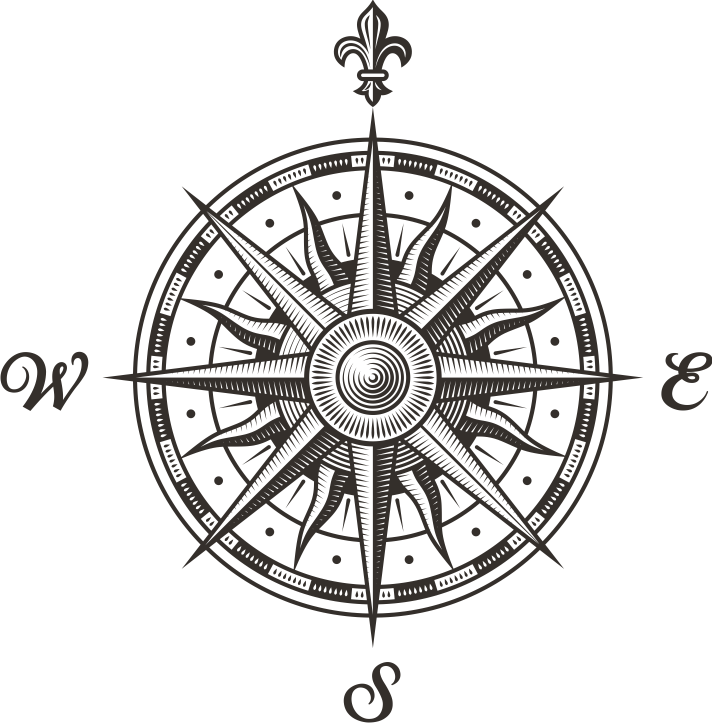
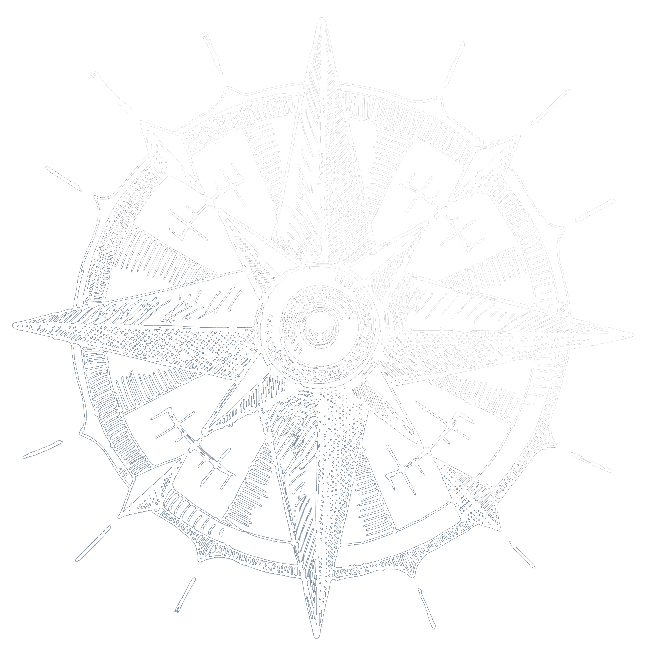
modify css to map section

Changed region(s): [[0.0, 0.0, 0.8909, 1.0], [0.9217, 0.4885, 1.0, 0.5802], [0.3687, 0.1527, 0.3994, 0.1832]]

diff --git a/assets/css/map.css b/assets/css/map.css
@@ -1,3 +1,10 @@
+
+#map h1 {
+  text-align:center;
+  padding: 10px;
+  background-color: black;
+}
+
 .tile {
   height: 120px;
   width: 120px;
@@ -26,53 +33,53 @@
 
 @media screen and (max-width: 1800px) {
   .tile {
-      height: 100px;
-      width: 100px;
+    height: 100px;
+    width: 100px;
   }
 }
 
 @media screen and (max-width: 1475px) {
   .tile {
-      height: 80px;
-      width: 80px;
+    height: 80px;
+    width: 80px;
   }
 }
 
 @media screen and (max-width: 1200px) {
   .tile {
-      height: 60px;
-      width: 60px;
+    height: 60px;
+    width: 60px;
   }
 }
 
 .tile-name {
   position: absolute;
   font-family: Caribbean;
-  opacity: 0.8;
+  opacity: 0.5;
 }
 
 .sea {
-  background-image: url('../images/sea.png');
+  background-image: url("../images/sea.png");
 }
 
 .port {
-  background-image: url('../images/port.png');
+  background-image: url("../images/port.png");
 }
 
 .island {
-  background-image: url('../images/island.png');
+  background-image: url("../images/island.png");
 }
 
 @keyframes myBoat {
   0% {
-      transform: rotate(-5deg);
-      transform: translate(0 px, 0 px);
+    transform: rotate(-5deg);
+    transform: translate(0 px, 0 px);
   }
   50% {
-      transform: translate(5px, 5px);
+    transform: translate(5px, 5px);
   }
   100% {
-      transform: rotate(5deg) translate(0px, 0px);
+    transform: rotate(5deg) translate(0px, 0px);
   }
 }
 
@@ -82,31 +89,120 @@
 }
 
 .map {
-  background-image: url('../images/map.jpg');
+  background-image: url("../images/map.jpg");
   background-size: cover;
   background-repeat: no-repeat;
   padding: 1em;
-  margin-top: 1em;
 }
 
-.navigation {
-  background-image: url('../images/compass.png');
-  background-size: cover;
-  width: 100%;
-  height: 300px;
-  padding: 1em;
-  padding-top: 0.2em;
+.navigation-infos {
+  display: flex;
+  flex-direction: column;
+  justify-content: space-around;
 }
 
+.navigation,
 .infos {
-  background-image: url('../images/map.jpg');
-  width: 100%;
-  min-height: 300px;
-  margin-top: 1em;
-  padding: 1em;
-  padding-top: 0.2em;
+  background-color: black;
+  border: 1px solid white;
+  height: 300px;
+  display: flex;
+  flex-direction: column;
+  align-items: center;
 }
 
-h2 {
+.navigation h2,
+.infos h2 {
+  padding: 10px;
   font-size: 1.3em;
+  margin-bottom: 0;
+}
+
+.navigation .nav-infos {
+  font-size: 10px;
+  color: white;
+  margin-bottom: 0;
+  text-align: center;
+  font-style: italic;
+}
+
+.compass,
+.board {
+  width: 200px;
+  height: 200px;
+  display: flex;
+  flex-direction: column;
+  justify-content: center;
+  align-items: center;
+  align-self: center;
+}
+
+.compass {
+  background-image: url("../images/compass.png");
+  background-size: cover;
+}
+
+.compass .btn {
+  color: white !important;
+  background-color: black !important;
+  height: 50px;
+  font-weight: bold;
+  display: flex;
+  justify-content: center;
+  align-items: center;
+  border: 1px solid white;
+}
+
+.compass .btn:hover {
+  color: black !important;
+  background-color: white !important;
+  border: 1px solid black;
+}
+
+.compass>*:first-child {
+    position: absolute;
+    top: 0;
+}
+.compass>*:last-child {
+    position: absolute;
+    bottom: 0;
+}
+
+.compass .middle {
+  width: 100%;
+  display: flex;
+  justify-content: space-between;
+}
+
+.board {
+  background-image: url("../images/infos.jpg");
+  background-size: cover;
+}
+.board p {
+  color: white;
+  background-color: black;
+  padding: 0 20px;
+}
+
+.overlay-image {
+  background-color : black;
+}
+
+.overlay-image img {
+  width: 50px;
+  height: 50px;
+}
+
+.overlay-text {
+  display: none;
+}
+
+.overlay-image:hover .overlay-text {
+  display: block;
+  text-align: center;
+ position: absolute;
+ bottom: 0;
+ left: 50%;
+ transform: translate(-50%, -50%);
+ width: 100%;
 }

diff --git a/assets/js/books.js b/assets/js/books.js
@@ -1,0 +1,70 @@
+var Books = (function() {
+
+	var $books = $( '#bk-list > li > div.bk-book' ), booksCount = $books.length;
+	
+	function init() {
+
+		$books.each( function() {
+			
+			var $book = $( this ),
+				$other = $books.not( $book ),
+				$parent = $book.parent(),
+				$page = $book.children( 'div.bk-page' ),
+				$bookview = $parent.find( 'button.bk-bookview' ),
+				$content = $page.children( 'div.bk-content' ), current = 0;
+
+			$book.on( 'click', function() {
+
+				var $this = $( this );			
+				
+				$other.data( 'opened', false ).removeClass( 'bk-viewinside' ).parent().css( 'z-index', 0 ).find( 'button.bk-bookview' ).removeClass( 'bk-active' );
+				if( !$other.hasClass( 'bk-viewback' ) ) {
+					$other.addClass( 'bk-bookdefault' );
+				}
+
+				if( $book.data( 'opened' ) ) {
+					$this.removeClass( 'bk-active' );
+					$book.data( { opened : false, flip : false } ).removeClass( 'bk-viewinside' ).addClass( 'bk-bookdefault' );
+				}
+				else {
+					$this.addClass( 'bk-active' );
+					$book.data( { opened : true, flip : false } ).removeClass( 'bk-viewback bk-bookdefault' ).addClass( 'bk-viewinside' );
+					$parent.css( 'z-index', booksCount );
+					current = 0;
+					$content.removeClass( 'bk-content-current' ).eq( current ).addClass( 'bk-content-current' );
+				}
+
+			} );
+
+			if( $content.length > 1 ) {
+
+				var $navPrev = $( '<span class="bk-page-prev">&lt;</span>' ),
+					$navNext = $( '<span class="bk-page-next">&gt;</span>' );
+				
+				$page.append( $( '<nav></nav>' ).append( $navPrev, $navNext ) );
+
+				$navPrev.on( 'click', function() {
+					if( current > 0 ) {
+						--current;
+						$content.removeClass( 'bk-content-current' ).eq( current ).addClass( 'bk-content-current' );
+					}
+					return false;
+				} );
+
+				$navNext.on( 'click', function() {
+					if( current < $content.length - 1 ) {
+						++current;
+						$content.removeClass( 'bk-content-current' ).eq( current ).addClass( 'bk-content-current' );
+					}
+					return false;
+				} );
+
+			}
+			
+		} );
+
+	}
+
+	return { init : init };
+
+})();

diff --git a/assets/css/style.css b/assets/css/style.css
@@ -1,10 +1,11 @@
 @font-face {
   font-family: Caribbean;
-  src: url('../fonts/Caribbean.ttf');
+  src: url("../fonts/Caribbean.ttf");
 }
 
 body {
-  background-image: url('../images/background.jpg');
+  background-color: black;
+  background-image: url("../images/background.jpg");
   background-size: cover;
   background-repeat: no-repeat;
   background-attachment: fixed;
@@ -15,13 +16,24 @@ nav {
   font-family: Caribbean;
 }
 
-h1, h2, h3, h4, h5, h6, .h1, .h2, .h3, .h4, .h5, .h6 {
+h1,
+h2,
+h3,
+h4,
+h5,
+h6,
+.h1,
+.h2,
+.h3,
+.h4,
+.h5,
+.h6 {
   font-family: Caribbean;
   color: white;
 }
 
 .introduction {
-  background-image: url('../images/papyrus.png');
+  background-image: url("../images/desktop.jpg");
   background-size: cover;
   background-repeat: no-repeat;
   padding: 7em;
@@ -60,9 +72,8 @@ h1, h2, h3, h4, h5, h6, .h1, .h2, .h3, .h4, .h5, .h6 {
 .hint {
   font-weight: bold;
   font-family: Caribbean;
-
 }
 blockquote {
   font-style: italic;
-  margin-top:0.5em;
+  margin-top: 0.5em;
 }

diff --git a/src/Controller/BoatController.php b/src/Controller/BoatController.php
@@ -58,7 +58,7 @@ class BoatController extends AbstractController
         MapManager $mapManager
     ): Response {
         if (!in_array($direction, self::DIRECTIONS)) {
-            throw $this->createNotFoundException('insert valid direction');
+            throw $this->createNotFoundException('Cette direction n\'existe pas !');
         }
 
         $boat = $boatRepository->findOneBy([]);
@@ -147,19 +147,5 @@ class BoatController extends AbstractController
             'boat' => $boat,
             'form' => $form->createView(),
         ]);
-    }
-
-    /**
-     * @Route("/{id}", name="boat_delete", methods="DELETE")
-     */
-    public function delete(Request $request, Boat $boat): Response
-    {
-        if ($this->isCsrfTokenValid('delete' . $boat->getId(), $request->request->get('_token'))) {
-            $em = $this->getDoctrine()->getManager();
-            $em->remove($boat);
-            $em->flush();
-        }
-
-        return $this->redirectToRoute('boat_index');
     }
 }
